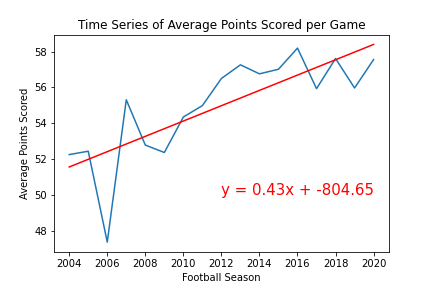
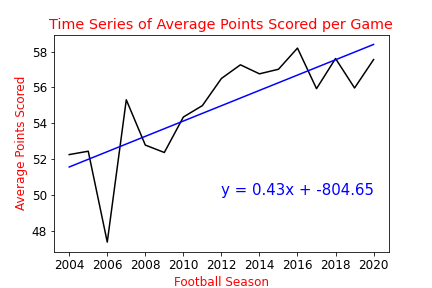
test color changes to plots

diff --git a/README.md b/README.md
@@ -63,25 +63,25 @@ This project uses:
 <a name="analysis"></a>
 ### Analysis
 
-![Average Points Extended]("Output/Average Points Extended.png")
+![Average Points Extended](Output/Average_Points_Extended.png)
 
-![Average Points Scored]("Output/Average Points Scored.png")
+![Average Points Scored](Output/Average_Points_Scored.png)
 
-![Average Explosive Plays]("Output/Average Explosive Plays.png")
+![Average Explosive Plays](Output/Average_Explosive_Plays.png)
 
-![Average Loss of Yard Plays]("Output/Average Loss of Yard Plays.png")
+![Average Loss of Yard Plays](Output/Average_Loss_of_Yard_Plays.png)
 
-![Average Margin of Victory]("Output/Average Margin of Victory.png")
+![Average Margin of Victory](Output/Average_Margin_of_Victory.png)
 
-![Average Number of Punts]("Output/Average Number of Punts.png")
+![Average Number of Punts](Output/Average_Number_of_Punts.png)
 
-![Average Standard Gain Plays]("Output/Average Standard Gain Plays.png")
+![Average Standard Gain Plays](Output/Average_Standard_Gain_Plays.png)
 
-![Average Third Down Efficiency]("Output/Average Third Down Efficiency.png")
+![Average Third Down Efficiency](Output/Average_Third_Down_Efficiency.png)
 
-![Average Total Yards]("Output/Average Total Yards.png")
+![Average Total Yards](Output/Average_Total_Yards.png)
 
-![Average Turnovers]("Output/Average Turnovers.png")
+![Average Turnovers](Output/Average_Turnovers.png)
 
 ![Play Type Bar Chart](Output/Play_Type_Bar.png)
 
